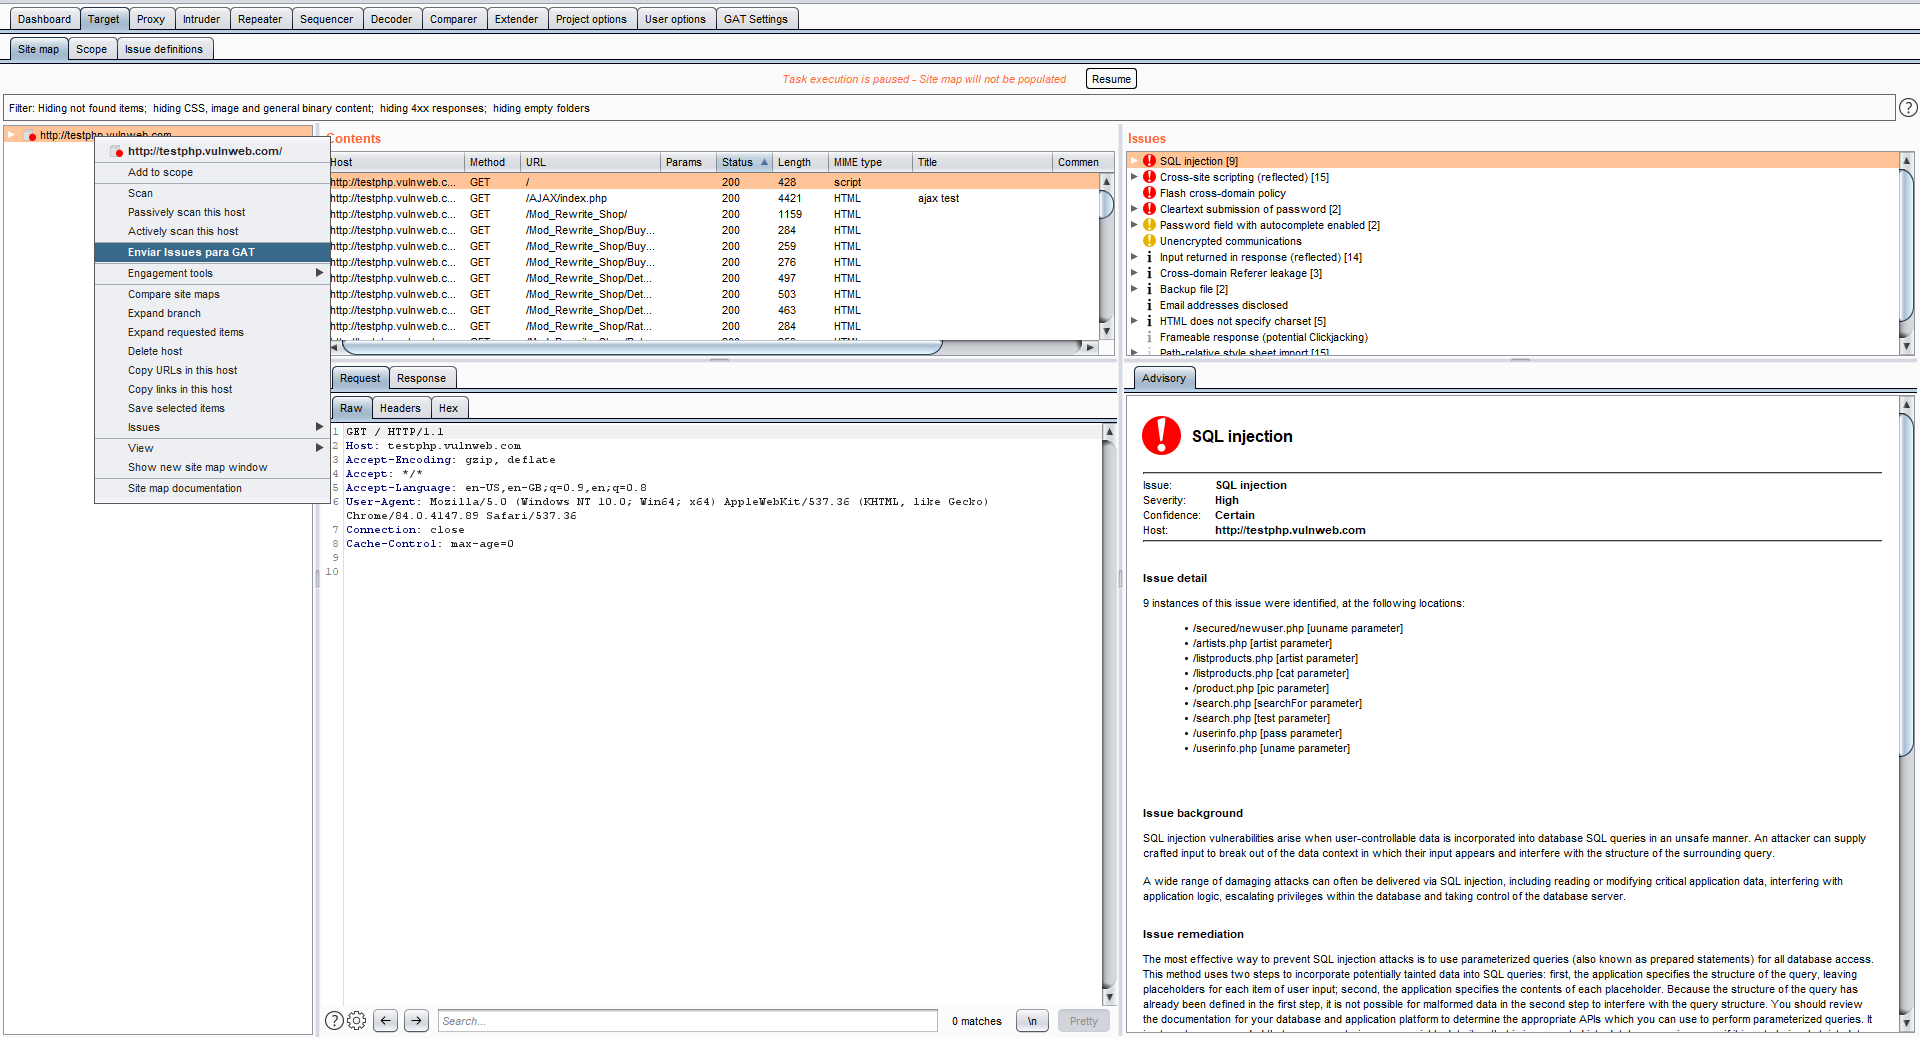
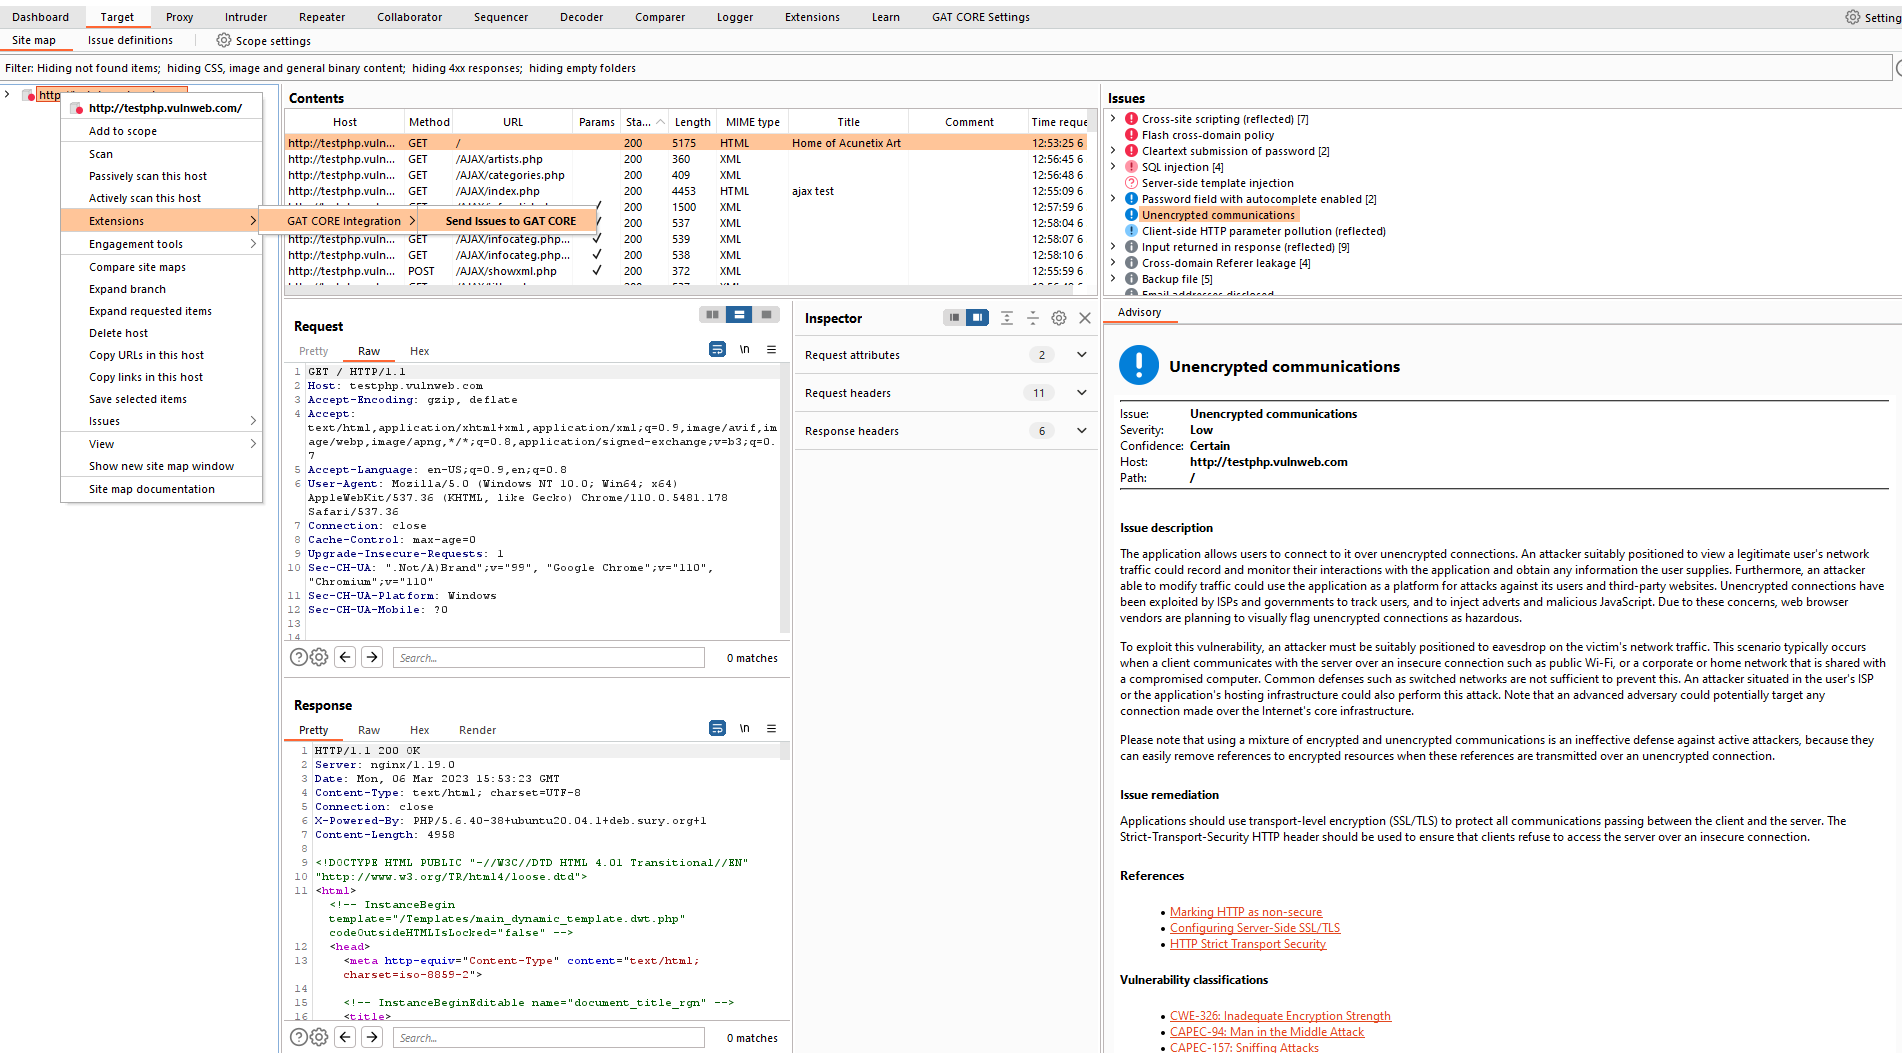
Problem send issues problems 0 host e 0 issues sending
* include protocol, url in getScanIssues()

Note
Changed texts throughout the project to English
Update Readme and images instructions

Changed region(s): [[0.0, 0.0, 1.0, 1.0], [0.3722, 0.6782, 0.4033, 0.7091], [0.3412, 0.8015, 0.3722, 0.8324]]

diff --git a/src/main.py b/src/main.py
@@ -102,7 +102,7 @@ class BurpExtender(IBurpExtender, IScannerListener, IContextMenuFactory,
         print("[+] GAT CORE Extension loaded!")
 
     def newScanIssue(self, issue):
-        print("[+] Issue encontrada (%s)" % issue.getIssueName())
+        print("[+] Issues found (%s)" % issue.getIssueName())
         return
 
     def actionTarget(self, event):
@@ -283,7 +283,7 @@ class BurpExtender(IBurpExtender, IScannerListener, IContextMenuFactory,
         self.invocation = invocation
         context = invocation.getInvocationContext()
         if context in [invocation.CONTEXT_TARGET_SITE_MAP_TREE]:
-            sendToGAT = JMenuItem("Send Issues to GAT CORE")
+            sendToGAT = JMenuItem("Send Issues")
 
             sendToGAT.setForeground(Color.GREEN.darker())
             FONT = sendToGAT.getFont()

diff --git a/README.md b/README.md
@@ -12,10 +12,9 @@
 
 ### First step - **Clone** the repository for the location where Burp Professional is installed..
 
-### Click on Tab **Extender**
-1. Go to subTab **Options** set to "Python Evironment"
+### Click on Tab **Extensions** click on settings, new windows open.
+1. Go to subTab **Extensions** set to "Python Evironment"
      * Location of Jython standalone JAR file, set to the folder / file: "~ \ burp-extension \ jython \ jython-standalone-2.7.2.jar"
-
 
 ![Alt text](images/img-1.png?raw=true "Environment Configuration")
 
@@ -27,6 +26,7 @@
 
 ### Click on Tab **GAT Core Settings**
 * Configure your API Url and API Token, click Save. Reload the GAT Core Integration extension in Tab ** Extender **
+* If u are using PROJECT ID it´s print hash in textbox
 
 ![Alt text](images/img-4.png?raw=true "API Configuration")
 
@@ -34,13 +34,14 @@
 
 ![Alt text](images/img-5.png?raw=true "API Connect")
 ---
-
+## New Menu for GAT Infosec on TARGET in Extensions subMenu
+![Alt text](images/img-6.png?raw=true "Sending")
 ## Using the extension
-In the "Target" Tab when clicking with the right mouse button, the option "Enviar Issues para GAT" will be available in the drop-down menu
+In the "Target" Tab when clicking with the right mouse button, the option submenu "Extensions" click on "GAT CORE Integration" --> "Sending Issues" will be available in the drop-down menu
 
-![Alt text](images/img-3.png?raw=true "Sending Issues GAT Core")
+![Alt text](images/img-3.png?raw=true "Sending Issues")
 
-After clicking on "Enviar Issues para GAT", you must confirm project to send hosts or not use project.
+After clicking on "Sending Issues", you must confirm project to send hosts or not use project.
 
 ![Alt text](images/img-7.png?raw=true "Sending")
 
